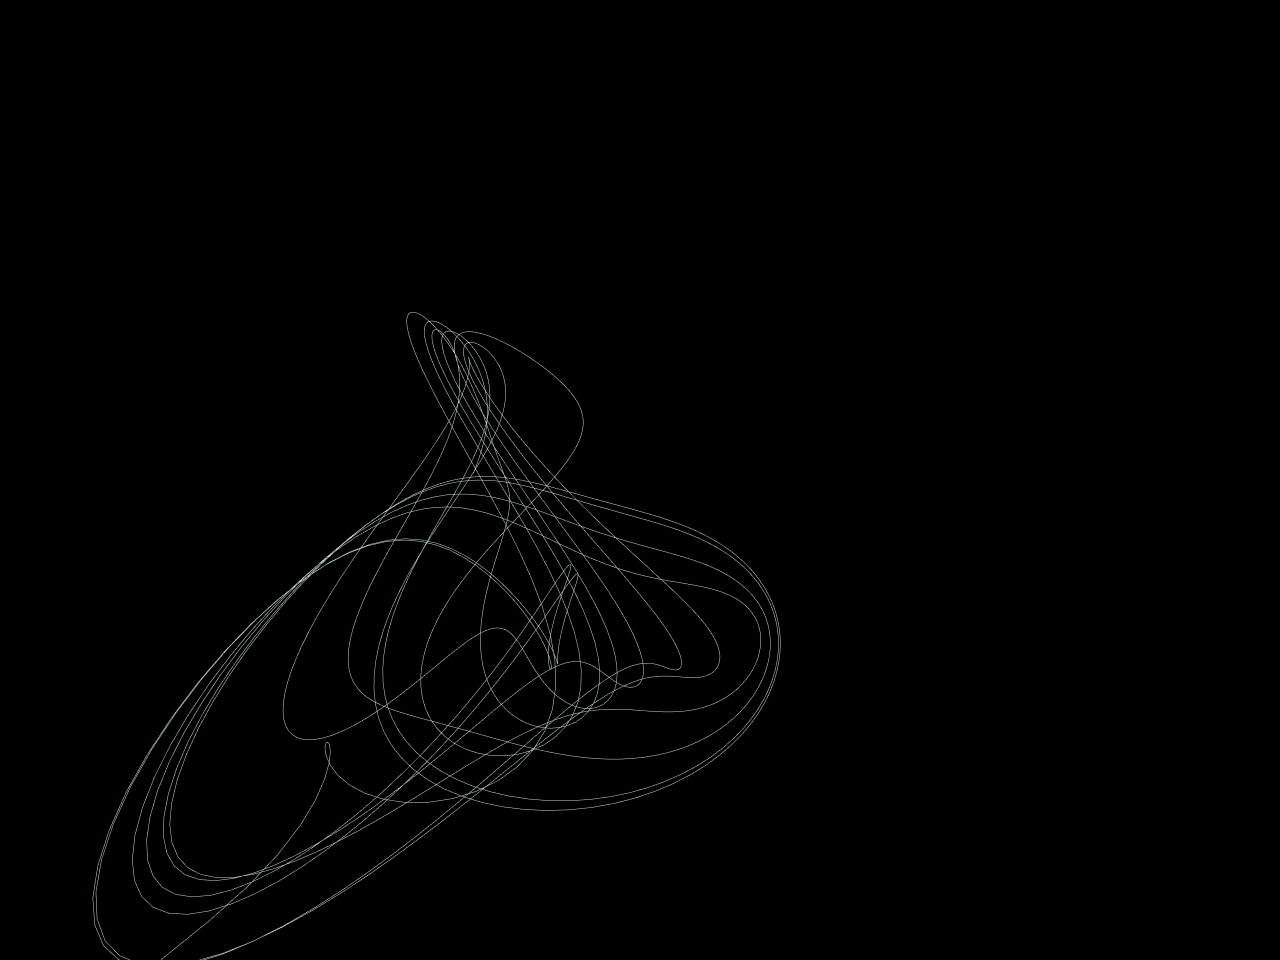
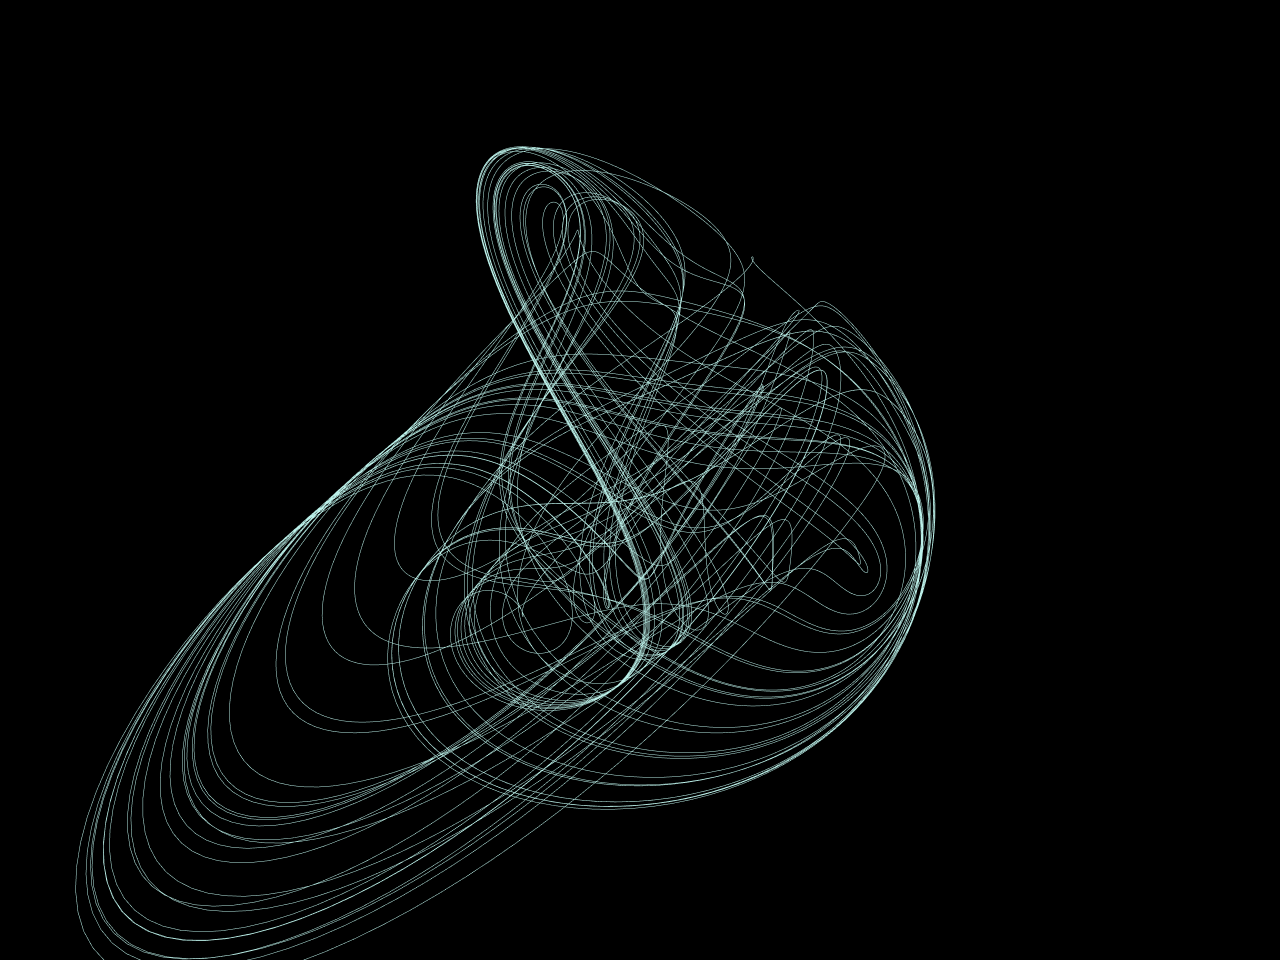
Fix Halvorsen Euler stability, centering, and copy.
Use dt=0.005 for a=1.4, recenter orbit for auto-rotate, update presets/tests/notebook/thumb.

Changed region(s): [[0.0625, 0.1562, 0.75, 1.0], [0.2188, 0.7188, 0.25, 0.75]]

diff --git a/packages/frontend/src/__tests__/attractors/halvorsen_attractor.test.ts b/packages/frontend/src/__tests__/attractors/halvorsen_attractor.test.ts
@@ -1,9 +1,44 @@
 import { describe, expect, it } from 'vitest'
 import { halvorsenTick } from '../../utils/halvorsen'
 
+const SEED = { x: -5, y: 0, z: 0 }
+const TRAIL_STEPS = 18_000
+
+function integrate(
+	a: number,
+	dt: number,
+	steps: number,
+	seed = SEED,
+): { bounded: boolean; spread: number } {
+	let { x, y, z } = seed
+	let minX = Infinity
+	let maxX = -Infinity
+	let minY = Infinity
+	let maxY = -Infinity
+	let minZ = Infinity
+	let maxZ = -Infinity
+	for (let i = 0; i < steps; i++) {
+		const next = halvorsenTick(x, y, z, a, dt)
+		x = next.x
+		y = next.y
+		z = next.z
+		if (!Number.isFinite(x) || Math.abs(x) > 1e4) {
+			return { bounded: false, spread: 0 }
+		}
+		minX = Math.min(minX, x)
+		maxX = Math.max(maxX, x)
+		minY = Math.min(minY, y)
+		maxY = Math.max(maxY, y)
+		minZ = Math.min(minZ, z)
+		maxZ = Math.max(maxZ, z)
+	}
+	const spread = Math.hypot(maxX - minX, maxY - minY, maxZ - minZ)
+	return { bounded: true, spread }
+}
+
 describe('halvorsenTick', () => {
 	it('steps from the classic seed without NaN', () => {
-		const next = halvorsenTick(-5, 0, 0, 1.4, 0.01)
+		const next = halvorsenTick(-5, 0, 0, 1.4, 0.005)
 		expect(Number.isFinite(next.x)).toBe(true)
 		expect(Number.isFinite(next.y)).toBe(true)
 		expect(Number.isFinite(next.z)).toBe(true)
@@ -12,12 +47,46 @@ describe('halvorsenTick', () => {
 
 	it('is cyclic under (x,y,z)→(y,z,x) for matching components', () => {
 		const a = 1.4
-		const dt = 0.01
+		const dt = 0.005
 		const p = { x: -1.2, y: 0.4, z: -0.3 }
 		const n = halvorsenTick(p.x, p.y, p.z, a, dt)
 		const nRot = halvorsenTick(p.y, p.z, p.x, a, dt)
 		expect(nRot.x).toBeCloseTo(n.y, 10)
 		expect(nRot.y).toBeCloseTo(n.z, 10)
 		expect(nRot.z).toBeCloseTo(n.x, 10)
+	})
+
+	it('matches Sprott field for the x component', () => {
+		const x = -1.2
+		const y = 0.4
+		const z = -0.3
+		const a = 1.4
+		const dt = 0.005
+		const dx = -a * x - 4 * y - 4 * z - y * y
+		const next = halvorsenTick(x, y, z, a, dt)
+		expect(next.x).toBeCloseTo(x + dt * dx, 10)
+	})
+
+	it('default preset stays bounded for a full trail at dt=0.005', () => {
+		const { bounded, spread } = integrate(1.4, 0.005, TRAIL_STEPS)
+		expect(bounded).toBe(true)
+		expect(spread).toBeGreaterThan(10)
+	})
+
+	it('dt=0.01 with a=1.4 blows up before a full trail (Euler)', () => {
+		const { bounded } = integrate(1.4, 0.01, TRAIL_STEPS)
+		expect(bounded).toBe(false)
+	})
+
+	it('catalog example presets stay bounded', () => {
+		for (const preset of [
+			{ a: 1.4, dt: 0.005 },
+			{ a: 1.45, dt: 0.005 },
+			{ a: 1.6, dt: 0.01 },
+		]) {
+			const { bounded, spread } = integrate(preset.a, preset.dt, TRAIL_STEPS)
+			expect(bounded).toBe(true)
+			expect(spread).toBeGreaterThan(10)
+		}
 	})
 })

diff --git a/packages/frontend/src/pages/attractors/halvorsen_attractor.tsx b/packages/frontend/src/pages/attractors/halvorsen_attractor.tsx
@@ -16,6 +16,10 @@ const SOLID = { r: 0.5, g: 0.88, b: 0.82 }
 
 const SEED = { x: -5, y: 0, z: 0 }
 const SCALE = 2.6
+/** Default-orbit bbox midpoint so auto-rotate pivots on the knot, not a corner. */
+const CENTER = { x: -4.04, y: -3.99, z: -4.09 }
+/** Forward Euler with dt=0.01 diverges before a full trail when a ≤ ~1.5 (Sprott a=1.4 needs a smaller step). */
+const DEFAULT_DT = 0.005
 
 type TrailState = {
 	x: number
@@ -63,11 +67,11 @@ const HalvorsenAttractor = () => {
 		(): TDatData => ({
 			options: {
 				a: { initialValue: 1.4, min: 0.5, max: 2.5, step: 0.0001 },
-				dt: { initialValue: 0.01, min: 0.001, max: 0.03, step: 0.0001 },
+				dt: { initialValue: DEFAULT_DT, min: 0.001, max: 0.03, step: 0.0001 },
 			},
 			examples: [
-				{ a: 1.4, dt: 0.01 },
-				{ a: 1.3, dt: 0.01 },
+				{ a: 1.4, dt: DEFAULT_DT },
+				{ a: 1.45, dt: DEFAULT_DT },
 				{ a: 1.6, dt: 0.01 },
 			],
 		}),
@@ -129,7 +133,10 @@ const HalvorsenAttractor = () => {
 			x = next.x
 			y = next.y
 			z = next.z
-			positions.set([x * SCALE, y * SCALE, z * SCALE], computed * EDimensions.THREE_D)
+			positions.set(
+				[(x - CENTER.x) * SCALE, (y - CENTER.y) * SCALE, (z - CENTER.z) * SCALE],
+				computed * EDimensions.THREE_D,
+			)
 			computed += 1
 		}
 
@@ -177,9 +184,9 @@ HalvorsenAttractor.getDescription = () => (
 		<BlockMath math={'\\dot{y} = -a y - 4 z - 4 x - z^2'} />
 		<BlockMath math={'\\dot{z} = -a z - 4 x - 4 y - x^2'} />
 		<br />
-		Defaults: <InlineMath math="a=1.4" />, <InlineMath math="dt=0.01" />, seed{' '}
+		Defaults: <InlineMath math="a=1.4" />, <InlineMath math="\mathrm{dt}=0.005" />, seed{' '}
 		<InlineMath math="(-5,0,0)" />. Proposed by Arne Dehli Halvorsen; documented by J. C. Sprott.
-		Cool→warm GPU line trail; transport <code>n</code> scrubs length.
+		Cool→warm line trail; transport <code>n</code> scrubs length.
 	</>
 )
 

diff --git a/packages/frontend/src/utils/halvorsen.ts b/packages/frontend/src/utils/halvorsen.ts
@@ -1,4 +1,4 @@
-/** Halvorsen ODE Euler step (classic cyclic form; demos use dt≈0.01). */
+/** Halvorsen ODE Euler step (Sprott cyclic form; dt≈0.005 for a≈1.4 at ~18k samples). */
 export function halvorsenTick(
 	x: number,
 	y: number,
